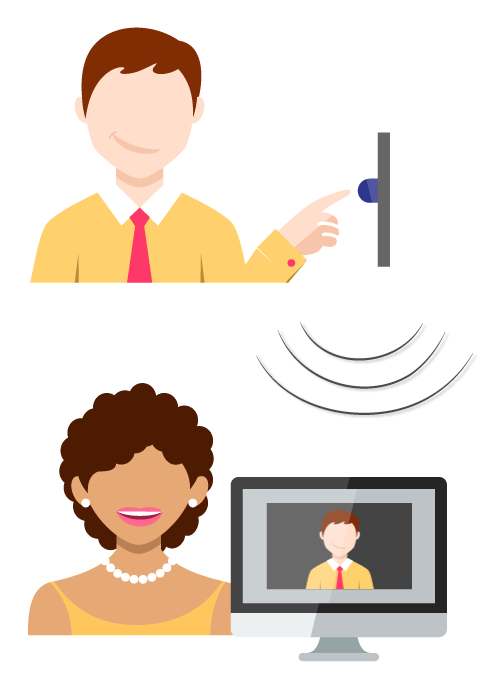
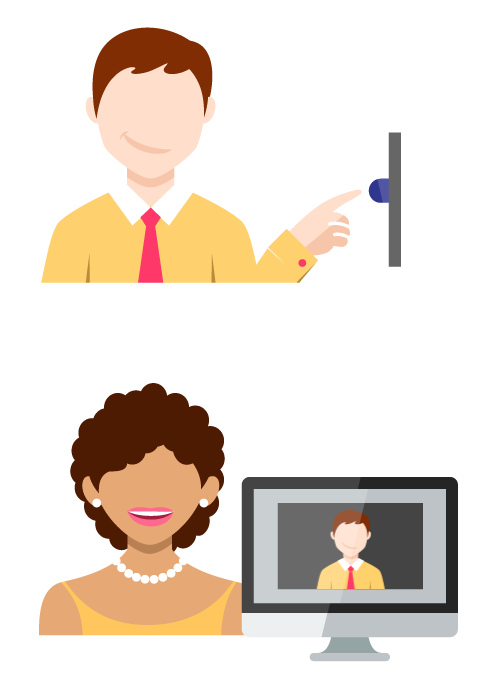
Update hardware integrations with stand-alon signal graphics

diff --git a/css/custom/_1025_up.scss b/css/custom/_1025_up.scss
@@ -506,6 +506,28 @@ button.yellow-background {
     img {
 
         padding-top: 80px;
+
+        &#signal-1 {
+
+            position: absolute;
+            top: 283px;
+            left: 300px;
+        }
+
+        &#signal-2 {
+
+            position: absolute;
+            top: 292px;
+            left: 275px;
+            
+        }
+
+        &#signal-3 {
+
+            position: absolute;
+            top: 323px;
+            left: 248px;
+        }
     }
 }
 

diff --git a/css/custom/styles.css b/css/custom/styles.css
@@ -1325,6 +1325,18 @@ button.yellow-background {
     padding-top: 300px; }
   #story-3 img {
     padding-top: 80px; }
+    #story-3 img#signal-1 {
+      position: absolute;
+      top: 283px;
+      left: 300px; }
+    #story-3 img#signal-2 {
+      position: absolute;
+      top: 292px;
+      left: 275px; }
+    #story-3 img#signal-3 {
+      position: absolute;
+      top: 323px;
+      left: 248px; }
 
   #all-in-one {
     background-color: #f2f2f2;

diff --git a/hardware-integrations.php b/hardware-integrations.php
@@ -71,6 +71,9 @@
             <div class="small-12 large-6 large-offset-1 columns">
                 <img src="img/hardware/david_intercom_mobile.png" alt="" class="hide-for-large-up">
                 <img src="img/hardware/david_intercom_desktop.png" alt="" class="show-for-large-up">
+                <img src="img/shared/signal_1.png" alt="" class="show-for-large-up signal-graphic" id="signal-1">
+                <img src="img/shared/signal_2.png" alt="" class="show-for-large-up signal-graphic" id="signal-2">
+                <img src="img/shared/signal_3.png" alt="" class="show-for-large-up signal-graphic" id="signal-3">
             </div>
         </div>
     </div>
